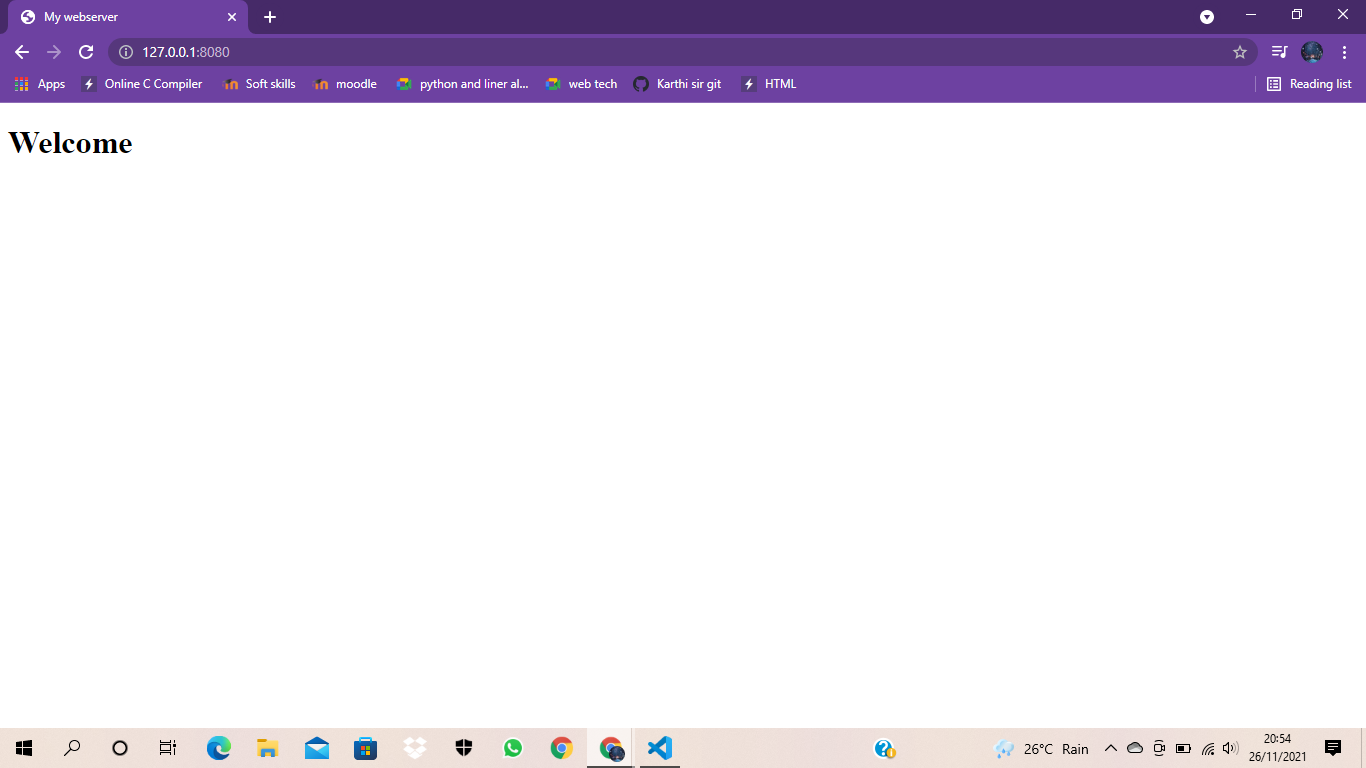
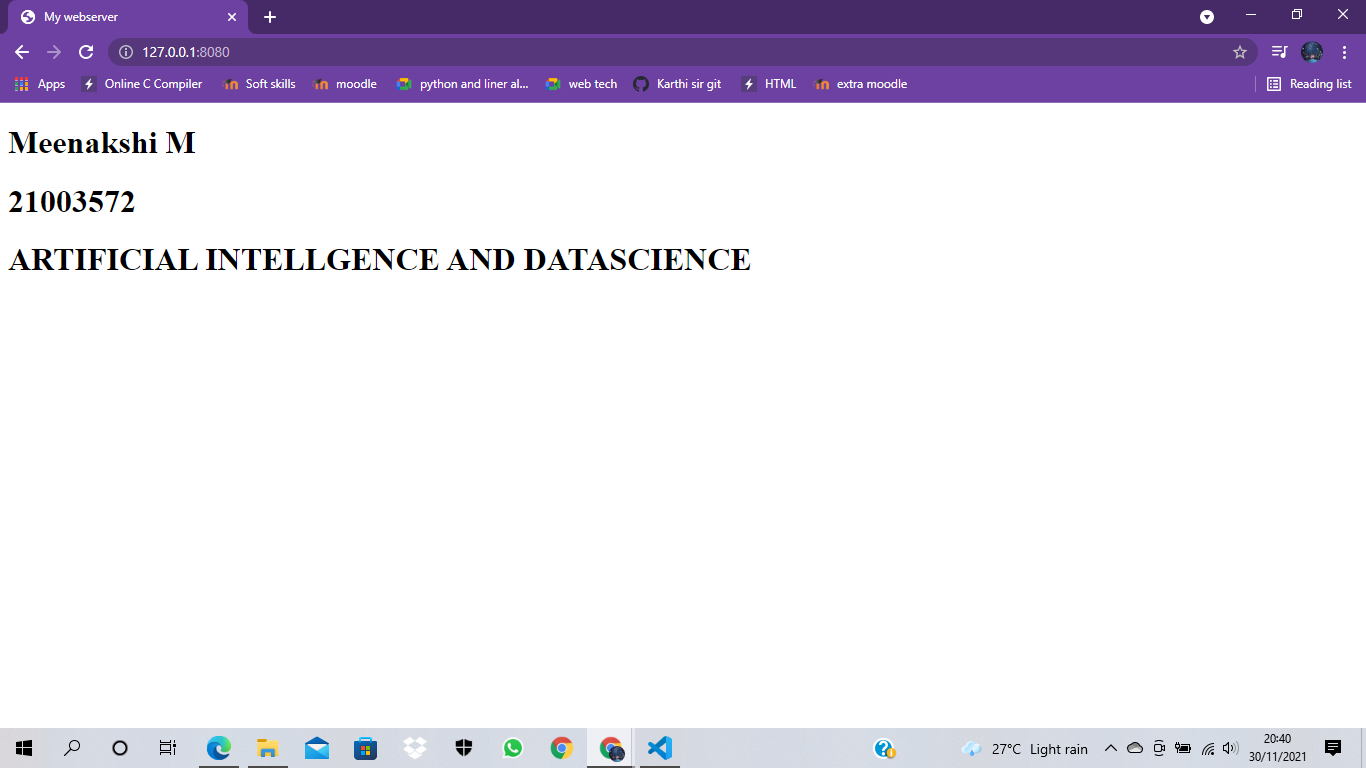
ch

diff --git a/web.py b/web.py
@@ -1,0 +1,25 @@
+from http.server import HTTPServer, BaseHTTPRequestHandler
+content = """
+<!DOCTYPE html>
+<html>
+<head>
+<title>My webserver</title>
+</head>
+<body>
+<h1>Meenakshi M</h1>
+<h1>21003572</h1>
+<h1>ARTIFICIAL INTELLGENCE AND DATASCIENCE</h1>
+</body>
+</html>
+"""
+class myhandler(BaseHTTPRequestHandler):
+    def do_GET(self):
+        print("request received")
+        self.send_response(200)
+        self.send_header('content-type', 'text/html; charset=utf-8')
+        self.end_headers()
+        self.wfile.write(content.encode())
+server_address = ('',8080)
+httpd = HTTPServer(server_address,myhandler)
+print("my webserver is running...")
+httpd.serve_forever()
